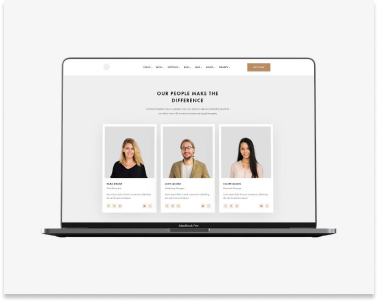
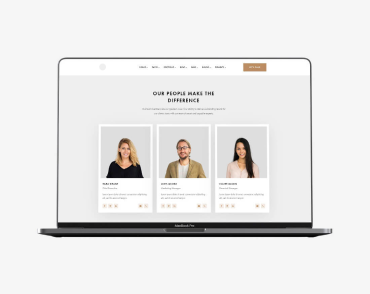
додає розмітку портфоліо, палітру кольорів, додає стилі кольору

diff --git a/portfolio.html b/portfolio.html
@@ -13,20 +13,22 @@
 </head>
 
 <body>
-<header>
-    <nav>
-        <a class="logo" lang="en" href="index.html"><span class="logo-part-one">Web</span><span>Studio</span></a>
-        <ul class="nav">
-            <li> <a class="link" href="./index.html">Студия</a></li>
-            <li> <a class="link current" href="./portfolio.html">Портфолио</a></li>
-            <li> <a class="link" href="">Контакты</a></li>
-        </ul>
-    </nav>
-    <ul class="contakts">
-        <li> <a class="phone" href="mailto:info@devstudio.com">info@devstudio.com</a></li>
-        <li> <a class="phone" href="tel:+380961111111">+38 096 111 11 11</a></li>
-    </ul>
-</header>
+    <header>
+        <div class="container">
+            <nav>
+                <a class="logo" lang="en" href="index.html"><span class="logo-part-one">Web</span><span>Studio</span></a>
+                <ul class="nav">
+                    <li> <a class="link" href="./index.html">Студия</a></li>
+                    <li> <a class="link current" href="./portfolio.html">Портфолио</a></li>
+                    <li> <a class="link" href="">Контакты</a></li>
+                </ul>
+            </nav>
+            <ul class="contacts">
+                <li> <a class="phone" href="mailto:info@devstudio.com">info@devstudio.com</a></li>
+                <li> <a class="phone" href="tel:+380961111111">+38 096 111 11 11</a></li>
+            </ul>
+        </div>
+    </header>
     <main>
         <section class="portfolio-section">
             <h1 class="portfolio-title">Портфолио</h1>

diff --git a/index.html b/index.html
@@ -13,18 +13,20 @@
 </head>
 <body>
     <header>
-        <nav>
-            <a class="logo" lang="en" href="index.html"><span class="logo-part-one">Web</span><span>Studio</span></a>
-            <ul class="nav">
-                <li> <a class="link current" href="./index.html">Студия</a></li>
-                <li> <a class="link" href="./portfolio.html">Портфолио</a></li>
-                <li> <a class="link" href="">Контакты</a></li>
+        <div class="container">
+            <nav>
+                <a class="logo" lang="en" href="index.html"><span class="logo-part-one">Web</span><span>Studio</span></a>
+                <ul class="nav">
+                    <li> <a class="link current" href="./index.html">Студия</a></li>
+                    <li> <a class="link" href="./portfolio.html">Портфолио</a></li>
+                    <li> <a class="link" href="">Контакты</a></li>
+                </ul>
+            </nav>
+            <ul class="contakts">
+                <li> <a class="phone" href="mailto:info@devstudio.com">info@devstudio.com</a></li>
+                <li> <a class="phone" href="tel:+380961111111">+38 096 111 11 11</a></li>
             </ul>
-        </nav>
-        <ul class="contakts">
-            <li> <a class="phone" href="mailto:info@devstudio.com">info@devstudio.com</a></li>
-            <li> <a class="phone" href="tel:+380961111111">+38 096 111 11 11</a></li>
-        </ul>
+        </div>
     </header>
     <main>
         <section class="hero-background">
